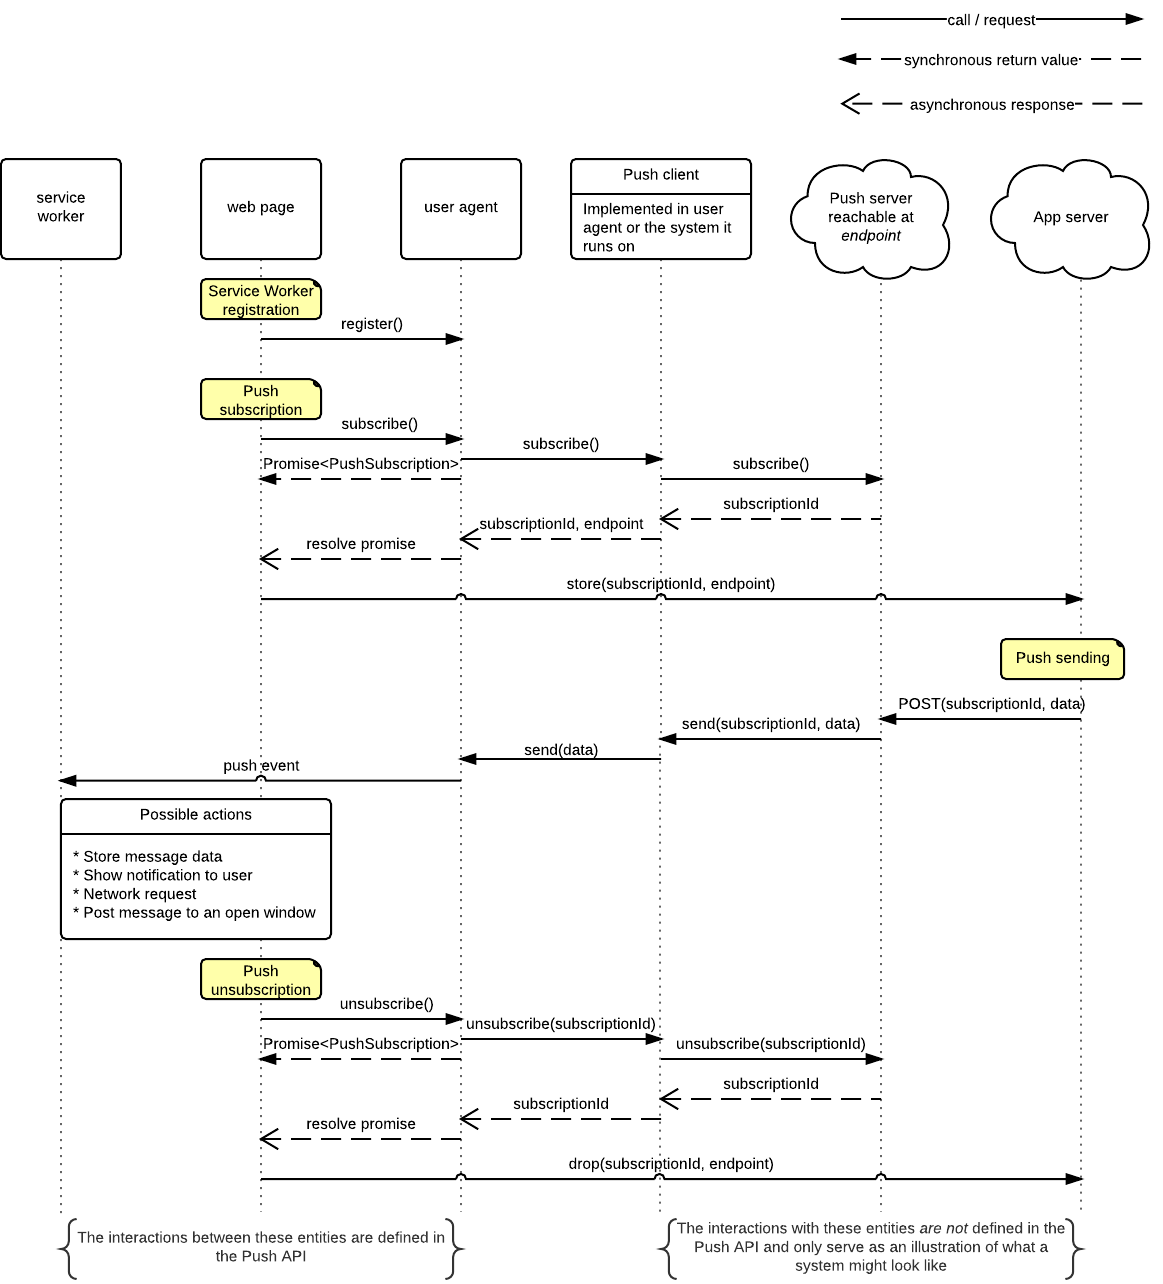
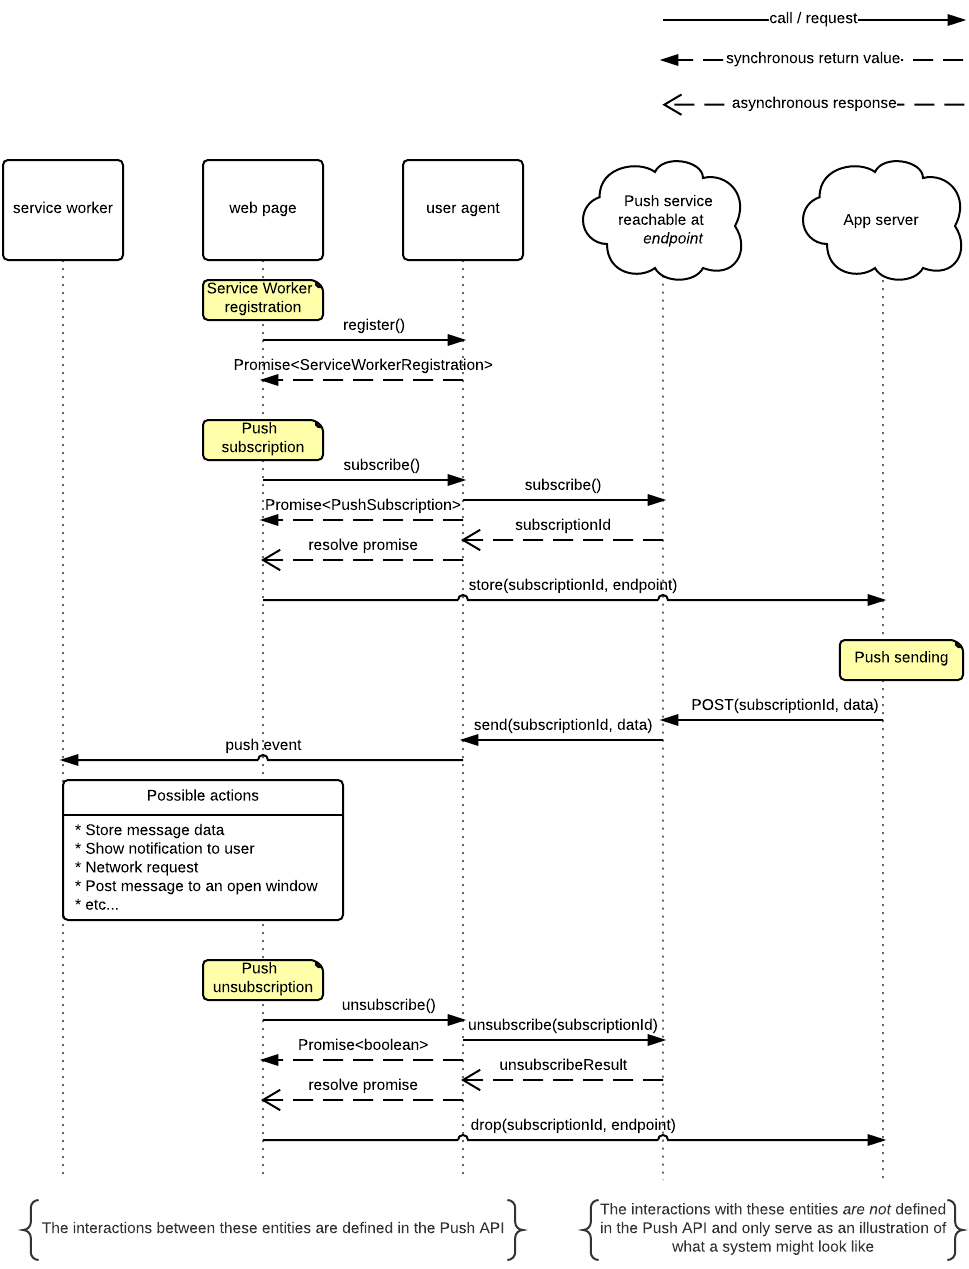
Clean up push service terminology.

diff --git a/index.html b/index.html
@@ -283,13 +283,9 @@
         <p>
           The term <dfn>push service</dfn> refers to an overall end-to-end system that allows
           <a title="webapp server">webapp servers</a> to send <a title="push message">push
-          messages</a> to a <a>webapp</a>.
-        </p>
-        <p>
-          The term <dfn>push server</dfn> refers to the <a>push service</a> access point via which
-          <a title="webapp server">webapp-servers</a> can initiate <a>push message</a> delivery.
-          Push servers typically expose APIs specific to the <a>push service</a>, e.g. for <a>push
-          message</a> delivery initiation.
+          messages</a> to a <a>webapp</a>. A push service has a server reachable at an associated
+          endpoint. Such servers typically expose APIs specific to the <a>push service</a>, e.g.
+          for <a>push message</a> delivery initiation.
         </p>
       </section>
       <section>
@@ -349,9 +345,9 @@
       <ul>
         <li>
           <a title="webapp server">Webapp servers</a> request delivery of a <a>push message</a> to
-          a <a>webapp</a> via a RESTful API exposed by a <a>push server</a>
+          a <a>webapp</a> via a RESTful API exposed by a <a>push service</a>
         </li>
-        <li>The <a>push server</a> delivers the message to a specific <a>user agent</a>
+        <li>The <a>push service</a> delivers the message to a specific <a>user agent</a>
         </li>
         <li>The <a>user agent</a> delivers the <a>push message</a> to the specific <a>webapp</a>
         intended to receive it.
@@ -422,69 +418,68 @@ navigator.serviceWorker.register('serviceworker.js').then(
       </section>
       <section>
         <h3>
-          Push Server Discovery and API Use
+          Push Service Discovery and API Use
         </h3>
         <p>
           This specification does not define either specific normative methods via which webapps
-          can determine the applicable push system, or initiate push requests through that system
-          via a push server API. While these limitations add complexity for webapp developers, they
-          reflect the current reality of a diversity of push systems, for which convergence at
-          least in push server APIs, is not expected to be a short-term possibility. While a
-          converged push server API is a worthwhile goal and may be addressed in a different
+          can determine the applicable push service, or initiate push requests through that service
+          via a push service API. While these limitations add complexity for webapp developers,
+          they reflect the current reality of a diversity of push services, for which convergence
+          at least on an API level, is not expected to be a short-term possibility. While a
+          converged push service API is a worthwhile goal and may be addressed in a different
           specification, the Push API defined here has been designed to enable the current variety
-          of push systems to be used as appropriate for the webapp host device or software
+          of push services to be used as appropriate for the webapp host device or software
           platform. This section provides examples of how a webapp can be designed to work with a
-          variety of hypothetical push systems as needed.
+          variety of hypothetical push services as needed.
         </p>
         <p>
           The Push API provides several interface parameters and attributes that can enable a
-          webapp to deliver and obtain the necessary push system specific data enabling use of that
-          particular push system. These parameters and attributes include:
+          webapp to deliver and obtain the necessary push service specific data enabling use of
+          that particular push service. These parameters and attributes include:
         </p>
         <ul>
           <li>The <code>subscriptionId</code> of a <code>PushSubscription</code>, as an opaque
-          string to the Push API, may be used by push systems to provide meaningful data to the <a>
-            webapp server</a> through the webapp. For example, the <code>subscriptionId</code> may
-            be used as a push server API request parameter or request body element for specific
-            push systems.
+          string to the Push API, may be used by push services to provide meaningful data to the
+          <a>webapp server</a> through the webapp. For example, the <code>subscriptionId</code> may
+          be used as a push service API request parameter or request body element.
           </li>
           <li>As a URI, the <code>endpoint</code> of a <code>PushSubscription</code> provides a
-          flexible means for push systems to deliver webapp-specific subscription and/or push
-          server API parameters to the <a>webapp server</a>, through the webapp.
+          flexible means for push services to deliver webapp-specific subscription and/or push
+          service API parameters to the <a>webapp server</a>, through the webapp.
           </li>
         </ul>
         <p>
-          Push systems that are compatible with the Push API will be expected to clarify how these
-          data are used in the push server APIs of the specific system, e.g. through their
-          developer programs. Examples of considerations include:
+          Push services that are compatible with the Push API will be expected to clarify how these
+          data are used in their APIs, e.g. through their developer programs. Examples of
+          considerations include:
         </p>
         <ul>
-          <li>The URI used by the <a>webapp server</a> to issue push server API requests, which may
-          be based upon the <code>endpoint</code>, and for a particular push server API request
-          require additional parameters e.g. the <code>subscriptionId</code>.
+          <li>The URI used by the <a>webapp server</a> to issue push service API requests, which
+          may be based upon the <code>endpoint</code>, and for a particular API request require
+          additional parameters e.g. the <code>subscriptionId</code>.
           </li>
-          <li>The push server API request body, which may require that the <code>endpoint</code> or
-          <code>subscriptionId</code> be present in some body element.
+          <li>The push service API request body, which may require that the <code>endpoint</code>
+          or <code>subscriptionId</code> be present in some body element.
           </li>
           <li>The <code>PushSubscription</code> attributes may only be used by the <a>webapp
           server</a> to associate the webapp to a specific push service subscription, with the
-          details of the push server API relying upon other pre-configured data.
+          details of the push service API relying upon other pre-configured data.
           </li>
         </ul>
         <p>
           The Push API does not provide any <code>PushSubscription</code> attributes that
-          normatively identify the particular push system that applies to the subscription. Webapps
-          that are designed to work with a single push system are assumed to know inherently how to
-          use the push server API of that system. For such webapps, a key consideration is ensuring
-          that if the webapp is used on a device or browser that does not support the necessary
-          push system, that either the user is informed that the push-dependent webapp functions
-          will not work, or the webapp must use alternate methods e.g. [[websockets]] or [[SSE]] to
-          deliver the server-initiated data.
+          normatively identify the particular push service that applies to the subscription.
+          Webapps that are designed to work with a single push service are assumed to know
+          inherently how to use the API of that service. For such webapps, a key consideration is
+          ensuring that if the webapp is used on a device or browser that does not support the
+          necessary push service, that either the user is informed that the push-dependent webapp
+          functions will not work, or the webapp must use alternate methods e.g. [[websockets]] or
+          [[SSE]] to deliver the server-initiated data.
         </p>
         <p>
-          Prior to use of a push server API, <a title="webapp server">webapp servers</a> that are
-          designed to work with multiple push systems may need to determine the applicable system
-          by parsing the <code>endpoint</code> to detect the push system from the URI domain.
+          Prior to use of a push service API, <a title="webapp server">webapp servers</a> that are
+          designed to work with multiple push services may need to determine the applicable service
+          by parsing the <code>endpoint</code> to detect the push service from the URI domain.
         </p>
       </section>
     </section>
@@ -583,8 +578,8 @@ navigator.serviceWorker.register('serviceworker.js').then(
             </li>
           </ol>
         </li>
-        <li>Make a request to the system to create a new <a>push subscription</a> for the
-        <a>webapp</a>.
+        <li>Make a request to the push service to create a new <a>push subscription</a> for the <a>
+          webapp</a>.
         </li>
         <li>If there is an error, reject <var>promise</var> with a <code><a>DOMException</a></code>
         whose name is "<code><a>AbortError</a></code>" and terminate these steps.
@@ -688,11 +683,11 @@ navigator.serviceWorker.register('serviceworker.js').then(
         <li>If the <a>push subscription</a> has already been <a>deactivated</a>, resolve
         <var>promise</var> with <code>false</code> and terminate these steps.
         </li>
-        <li>Make a request to the <a>push server</a> to <a title="deactivated">deactivate</a> the
+        <li>Make a request to the <a>push service</a> to <a title="deactivated">deactivate</a> the
         <a>push subscription</a>.
         </li>
-        <li>If it was not possible to access the <a>push server</a>, reject <var>promise</var> with
-        a "<code><a>NetworkError</a></code>" exception and terminate these steps.
+        <li>If it was not possible to access the <a>push service</a>, reject <var>promise</var>
+        with a "<code><a>NetworkError</a></code>" exception and terminate these steps.
         </li>
         <li>When the request has been completed, resolve <var>promise</var> with <code>true</code>.
         </li>
